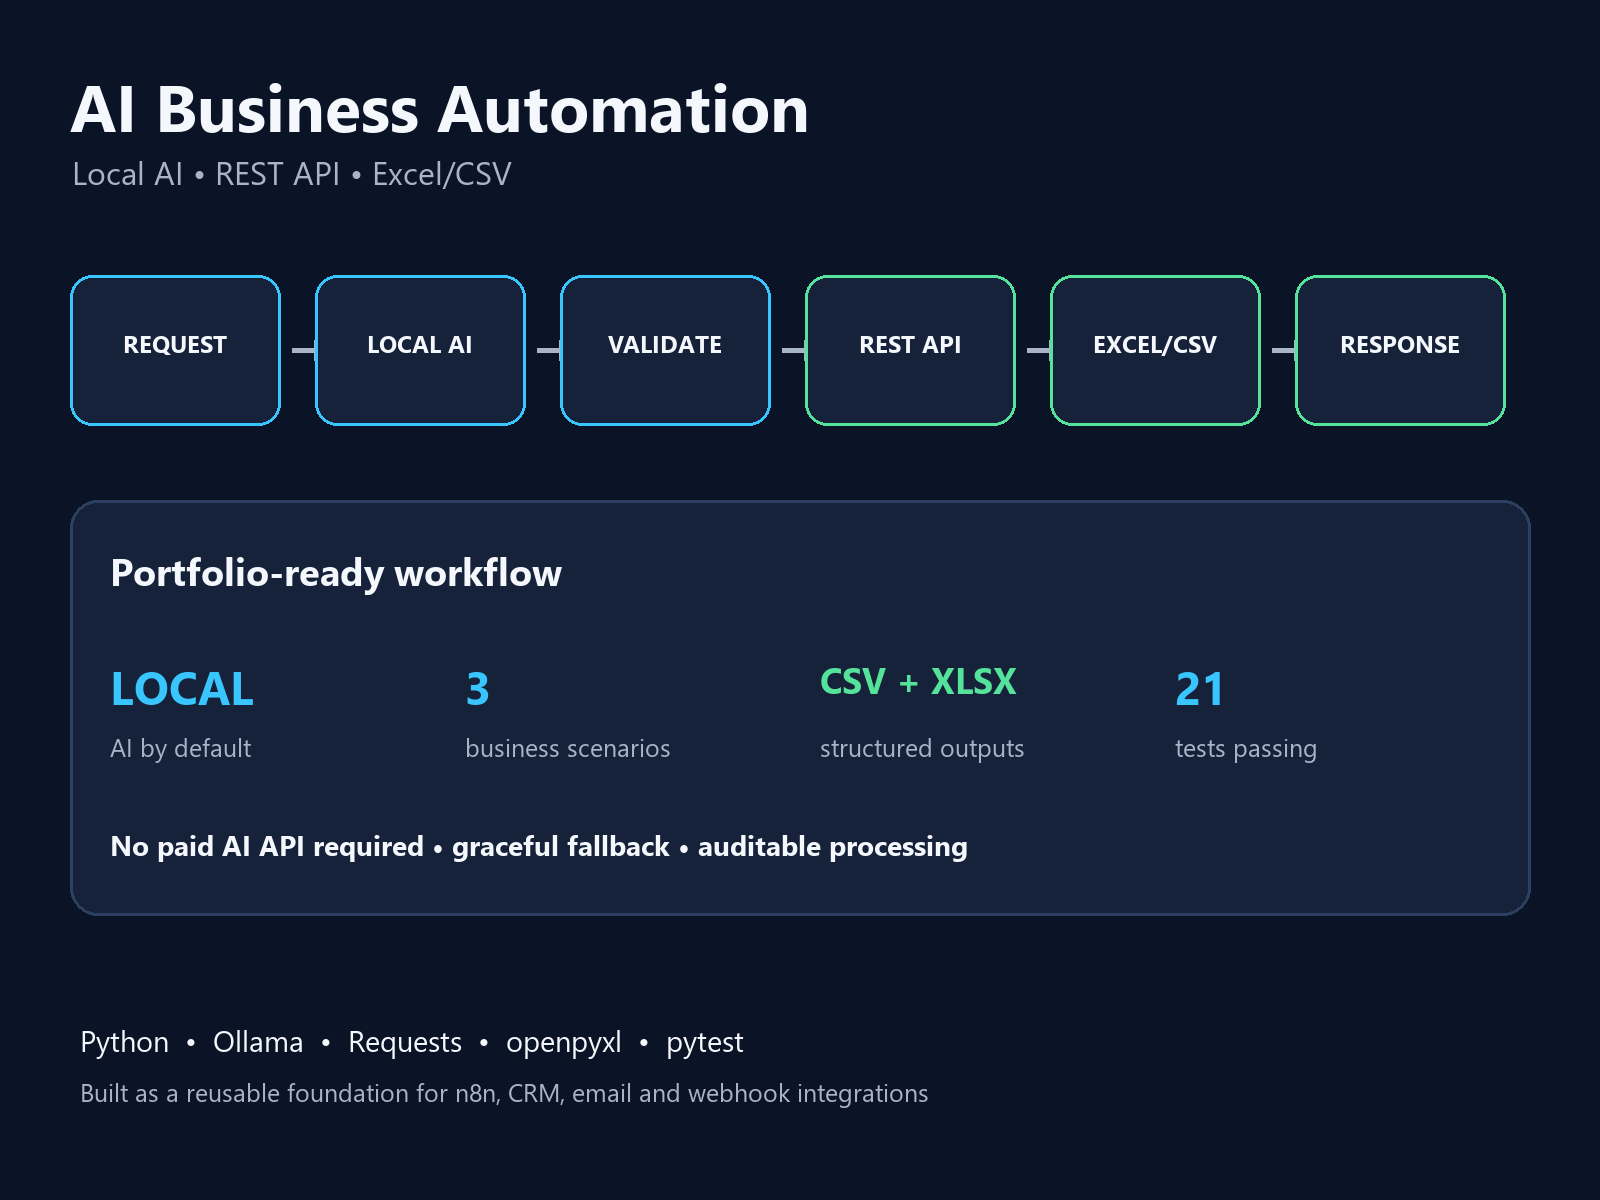
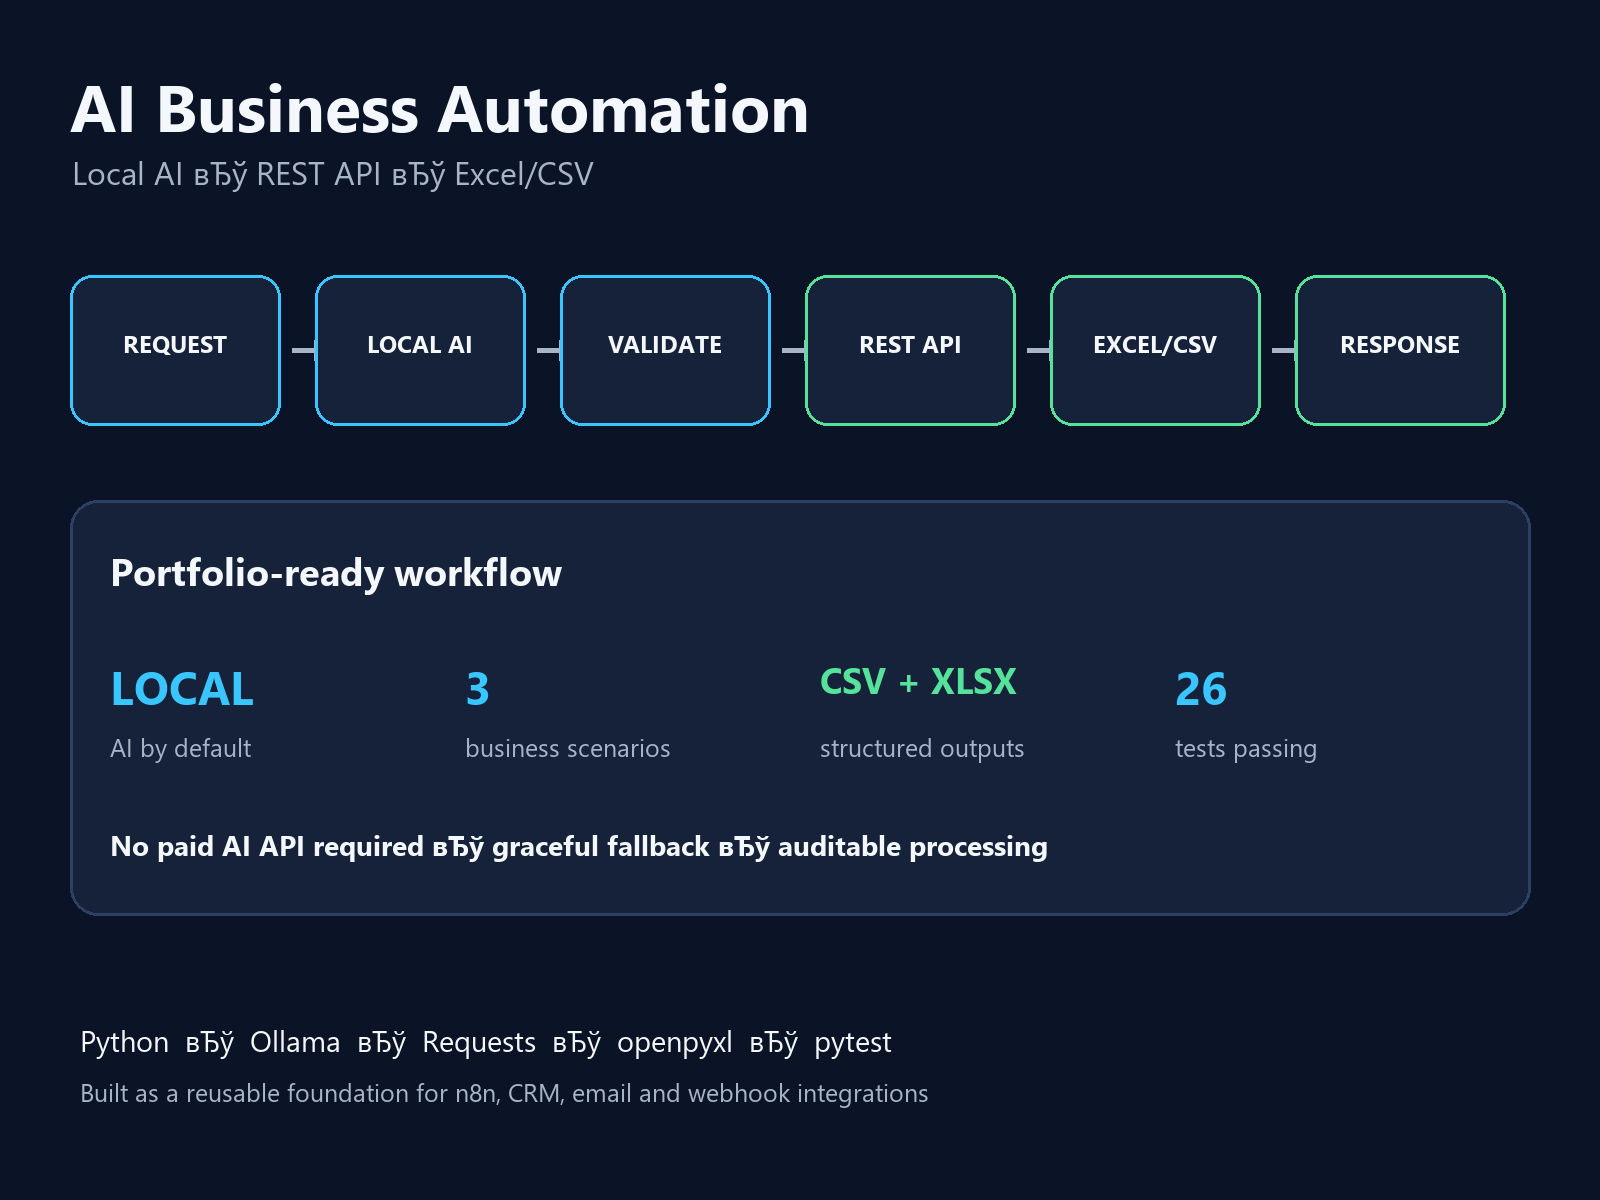
fix: harden local AI classification output

diff --git a/models.py b/models.py
@@ -1,4 +1,4 @@
-from __future__ import annotations
+from __future__ import annotations
 
 from dataclasses import asdict, dataclass, fields
 from datetime import datetime, timezone
@@ -48,6 +48,24 @@ def _text(value: Any, default: str) -> str:
     return value if value else default
 
 
+def _normalize_request_type(value: Any) -> str:
+    text = _text(value, "general").lower().replace("-", " ").replace("_", " ")
+    if any(token in text for token in ("clean", "csv", "excel", "deduplic", "data cleanup")):
+        return "data_cleanup"
+    if any(token in text for token in ("automat", "api", "workflow", "lead")):
+        return "automation"
+    if "report" in text:
+        return "reporting"
+    return "general"
+
+
+def _identity(value: Any) -> str:
+    text = _text(value, "Unknown")
+    if text.lower() in {"john doe", "jane doe", "customer name", "company name", "n/a", "none", "unknown"}:
+        return "Unknown"
+    return text
+
+
 def normalize_payload(payload: dict) -> BusinessRequest:
     raw_priority = _text(payload.get("priority"), "normal").lower()
     priority = raw_priority if raw_priority in {"low", "normal", "high", "urgent"} else "normal"
@@ -60,12 +78,15 @@ def normalize_payload(payload: dict) -> BusinessRequest:
     return BusinessRequest(
         request_id=_text(payload.get("request_id"), str(uuid4())),
         received_at=_text(payload.get("received_at"), datetime.now(timezone.utc).isoformat()),
-        customer_name=_text(payload.get("customer_name"), "Unknown"),
-        company=_text(payload.get("company"), "Unknown"),
+        customer_name=_identity(payload.get("customer_name")),
+        company=_identity(payload.get("company")),
         email=str(payload.get("email") or "").strip(),
-        request_type=_text(payload.get("request_type"), "general").lower(),
+        request_type=_normalize_request_type(payload.get("request_type")),
         priority=priority,
         summary=_text(payload.get("summary"), "No summary provided"),
         requested_action=_text(payload.get("requested_action"), "Review request"),
         confidence=confidence,
     )
+
+
+

diff --git a/generate_cover.py b/generate_cover.py
@@ -1,4 +1,4 @@
-from pathlib import Path
+from pathlib import Path
 
 from PIL import Image, ImageDraw, ImageFont
 
@@ -28,7 +28,7 @@ def main() -> None:
     line = "#2c4162"
 
     draw.text((70, 60), "AI Business Automation", font=font(66, True), fill=white)
-    draw.text((72, 150), "Local AI • REST API • Excel/CSV", font=font(32), fill=muted)
+    draw.text((72, 150), "Local AI вЂў REST API вЂў Excel/CSV", font=font(32), fill=muted)
 
     steps = ["REQUEST", "LOCAL AI", "VALIDATE", "REST API", "EXCEL/CSV", "RESPONSE"]
     x, y, width, height = 70, 275, 210, 150
@@ -54,7 +54,7 @@ def main() -> None:
         ("LOCAL", "AI by default"),
         ("3", "business scenarios"),
         ("CSV + XLSX", "structured outputs"),
-        ("21", "tests passing"),
+        ("26", "tests passing"),
     ]
     x = 110
     for value, label in metrics:
@@ -63,8 +63,8 @@ def main() -> None:
         draw.text((x, 730), label, font=font(25), fill=muted)
         x += 355
 
-    draw.text((110, 825), "No paid AI API required • graceful fallback • auditable processing", font=font(28, True), fill=white)
-    draw.text((80, 1020), "Python  •  Ollama  •  Requests  •  openpyxl  •  pytest", font=font(29), fill=white)
+    draw.text((110, 825), "No paid AI API required вЂў graceful fallback вЂў auditable processing", font=font(28, True), fill=white)
+    draw.text((80, 1020), "Python  вЂў  Ollama  вЂў  Requests  вЂў  openpyxl  вЂў  pytest", font=font(29), fill=white)
     draw.text((80, 1075), "Built as a reusable foundation for n8n, CRM, email and webhook integrations", font=font(25), fill=muted)
 
     img.save(COVER)
@@ -73,3 +73,5 @@ def main() -> None:
 
 if __name__ == "__main__":
     main()
+
+

diff --git a/ai_client.py b/ai_client.py
@@ -1,4 +1,4 @@
-from __future__ import annotations
+from __future__ import annotations
 
 import json
 import re
@@ -56,6 +56,15 @@ def classify_request(
         payload = json.loads(raw)
         if not isinstance(payload, dict):
             raise ValueError("Ollama response is not an object")
-        return normalize_payload(payload)
+        item = normalize_payload(payload)
+        grounded = fallback_parse(text)
+        if item.request_type == "general" and grounded.request_type != "general":
+            item.request_type = grounded.request_type
+        if grounded.priority == "urgent":
+            item.priority = "urgent"
+        if not item.email and grounded.email:
+            item.email = grounded.email
+        return item
     except (requests.RequestException, ValueError, TypeError, json.JSONDecodeError, KeyError):
         return fallback_parse(text)
+

diff --git a/tests/test_models.py b/tests/test_models.py
@@ -42,3 +42,16 @@ def test_processed_request_contains_spec_fields():
     assert item.processing_status == "processed"
     assert item.request_id
     assert item.received_at
+
+
+def test_request_type_is_normalized_to_stable_categories():
+    assert normalize_payload({"request_type": "data cleaning"}).request_type == "data_cleanup"
+    assert normalize_payload({"request_type": "API automation"}).request_type == "automation"
+    assert normalize_payload({"request_type": "urgent report"}).request_type == "reporting"
+    assert normalize_payload({"request_type": "something unexpected"}).request_type == "general"
+
+
+def test_common_ai_placeholders_do_not_become_customer_identity():
+    item = normalize_payload({"customer_name": "John Doe", "company": "Company Name"})
+    assert item.customer_name == "Unknown"
+    assert item.company == "Unknown"

diff --git a/tests/test_ai_client.py b/tests/test_ai_client.py
@@ -49,3 +49,12 @@ def test_missing_model_fields_receive_defaults(monkeypatch):
     assert item.customer_name == "Unknown"
     assert item.priority == "normal"
     assert item.summary == "No summary provided"
+
+
+def test_text_signals_guard_weak_model_classification(monkeypatch):
+    payload = '{"customer_name":"Unknown","company":"Unknown","email":"","request_type":"integration","priority":"high","summary":"Lead flow","requested_action":"Build it","confidence":0.8}'
+    monkeypatch.setattr(ai_client.requests, "post", lambda *a, **k: FakeResponse({"response": payload}))
+    item = ai_client.classify_request("Urgent: need API automation, contact ops@example.com")
+    assert item.request_type == "automation"
+    assert item.priority == "urgent"
+    assert item.email == "ops@example.com"
